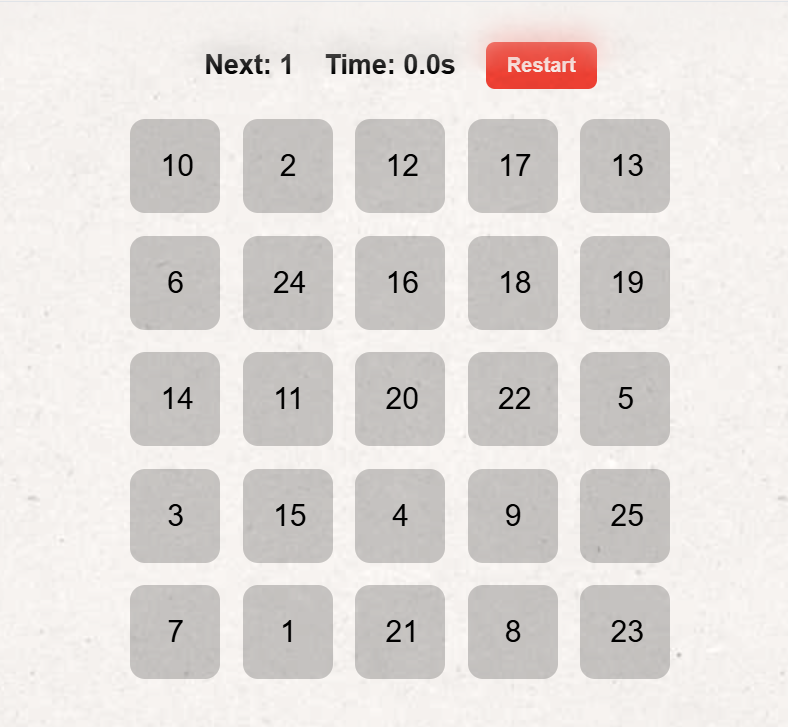
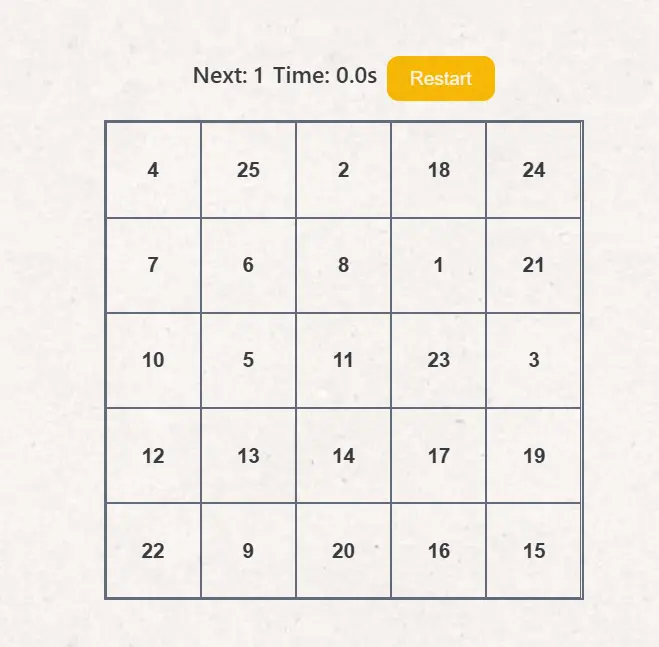
made grid responsive

diff --git a/src/app/game/schulte-table/page.tsx b/src/app/game/schulte-table/page.tsx
@@ -28,7 +28,10 @@ const SchulteTable = () => {
   }
 
   const startNewGame = useCallback(() => {
-    if (intervalRef.current) clearInterval(intervalRef.current)
+    if (intervalRef.current) {
+      clearInterval(intervalRef.current)
+      intervalRef.current = null
+    }
     clearAllTimeouts()
 
     setNumbers(generateShuffledNumbers())
@@ -42,23 +45,32 @@ const SchulteTable = () => {
   useEffect(() => {
     startNewGame()
     return () => {
-      if (intervalRef.current) clearInterval(intervalRef.current)
+      if (intervalRef.current) {
+        clearInterval(intervalRef.current)
+        intervalRef.current = null
+      }
       clearAllTimeouts()
     }
   }, [startNewGame])
 
   useEffect(() => {
     if (startTime !== null && nextNumber <= 25) {
-      if (intervalRef.current) clearInterval(intervalRef.current)
+      if (intervalRef.current) {
+        clearInterval(intervalRef.current)
+        intervalRef.current = null
+      }
       intervalRef.current = setInterval(() => {
         setElapsedTime(Math.floor((Date.now() - startTime) / 100) / 10)
       }, 100)
     }
 
     return () => {
-      if (intervalRef.current) clearInterval(intervalRef.current)
+      if (intervalRef.current) {
+        clearInterval(intervalRef.current)
+        intervalRef.current = null
+      }
     }
-  }, [startTime])
+  }, [startTime, nextNumber])
 
   const handleClick = (num: number) => {
     if (num === nextNumber) {
@@ -69,10 +81,14 @@ const SchulteTable = () => {
       }
 
       if (num === 25) {
-        if (intervalRef.current) clearInterval(intervalRef.current)
+        if (intervalRef.current) {
+          clearInterval(intervalRef.current)
+          intervalRef.current = null
+        }
         timeoutRefs.current.push(setTimeout(() => setShowPopup(true), 200))
       } else {
-      timeoutRefs.current.push(setTimeout(() => setHighlighted(null), 200))
+        clearAllTimeouts()
+        timeoutRefs.current.push(setTimeout(() => setHighlighted(null), 200))
       }
       setNextNumber(num + 1)
     }

diff --git a/src/app/game/schulte-table/page.module.css b/src/app/game/schulte-table/page.module.css
@@ -1,13 +1,4 @@
-.container {
-  display: flex;
-  flex-direction: column;
-  align-items: center;
-  padding: 2rem 1rem;
-  font-family: 'Segoe UI', sans-serif;
-  background-color: var(--background);
-  min-height: 100vh;
-  box-sizing: border-box;
-}
+
 
 .header {
   display: flex;
@@ -47,17 +38,17 @@
 
 .grid {
   display: grid;
-  grid-template-columns: repeat(auto-fit, minmax(55px, 1fr));
-  gap: 0;
-  max-width: 280px;
-  width: 100%;
+  grid-template-columns: repeat(5, 1fr); /* Always 5 columns */
+  grid-template-rows: repeat(5, 1fr);    /* Always 5 rows */
+  width: 90vmin;                         /* Responsive: 90% of smaller viewport dimension */
+  max-width: 400px;
+  max-height: 400px;
+  aspect-ratio: 1 / 1;
   border: 2px solid var(--slate-black);
 }
 
 .cell {
-  width: 100%;
-  aspect-ratio: 1 / 1;
-  font-size: 1.2rem;
+  font-size: clamp(1rem, 2.5vmin, 1.6rem); /* Scales with viewport */
   font-weight: bold;
   border: 1px solid var(--slate-black);
   cursor: pointer;
@@ -69,6 +60,19 @@
   user-select: none;
   transition: background 0.2s;
 }
+
+.container {
+  display: flex;
+  flex-direction: column;
+  align-items: center;
+  justify-content: flex-start;
+  padding: 2rem 1rem;
+  font-family: 'Segoe UI', sans-serif;
+  background-color: var(--background);
+  min-height: 100vh;
+  box-sizing: border-box;
+}
+
 
 .cell:focus {
   outline: none;
@@ -135,3 +139,40 @@
 .instructions li {
   margin: 0.4rem 0;
 }
+
+/*@media screen and (min-width: 768px) {
+  .grid {
+    grid-template-columns: repeat(5, minmax(55px, 1fr));
+    max-width: 400px;
+  }
+
+  .cell {
+    font-size: 1.4rem;
+  }
+
+  .status {
+    font-size: 1.4rem;
+  }
+
+  .restartBtn,
+  .learnBtn {
+    font-size: 1.1rem;
+    padding: 0.8rem 1.4rem;
+  }
+
+  .popup {
+    width: 360px;
+  }
+
+  .instructions {
+    font-size: 1.05rem;
+  }
+
+  .instructions h2 {
+    font-size: 1.8rem;
+  }
+
+  .instructions h3 {
+    font-size: 1.3rem;
+  }
+}*/
